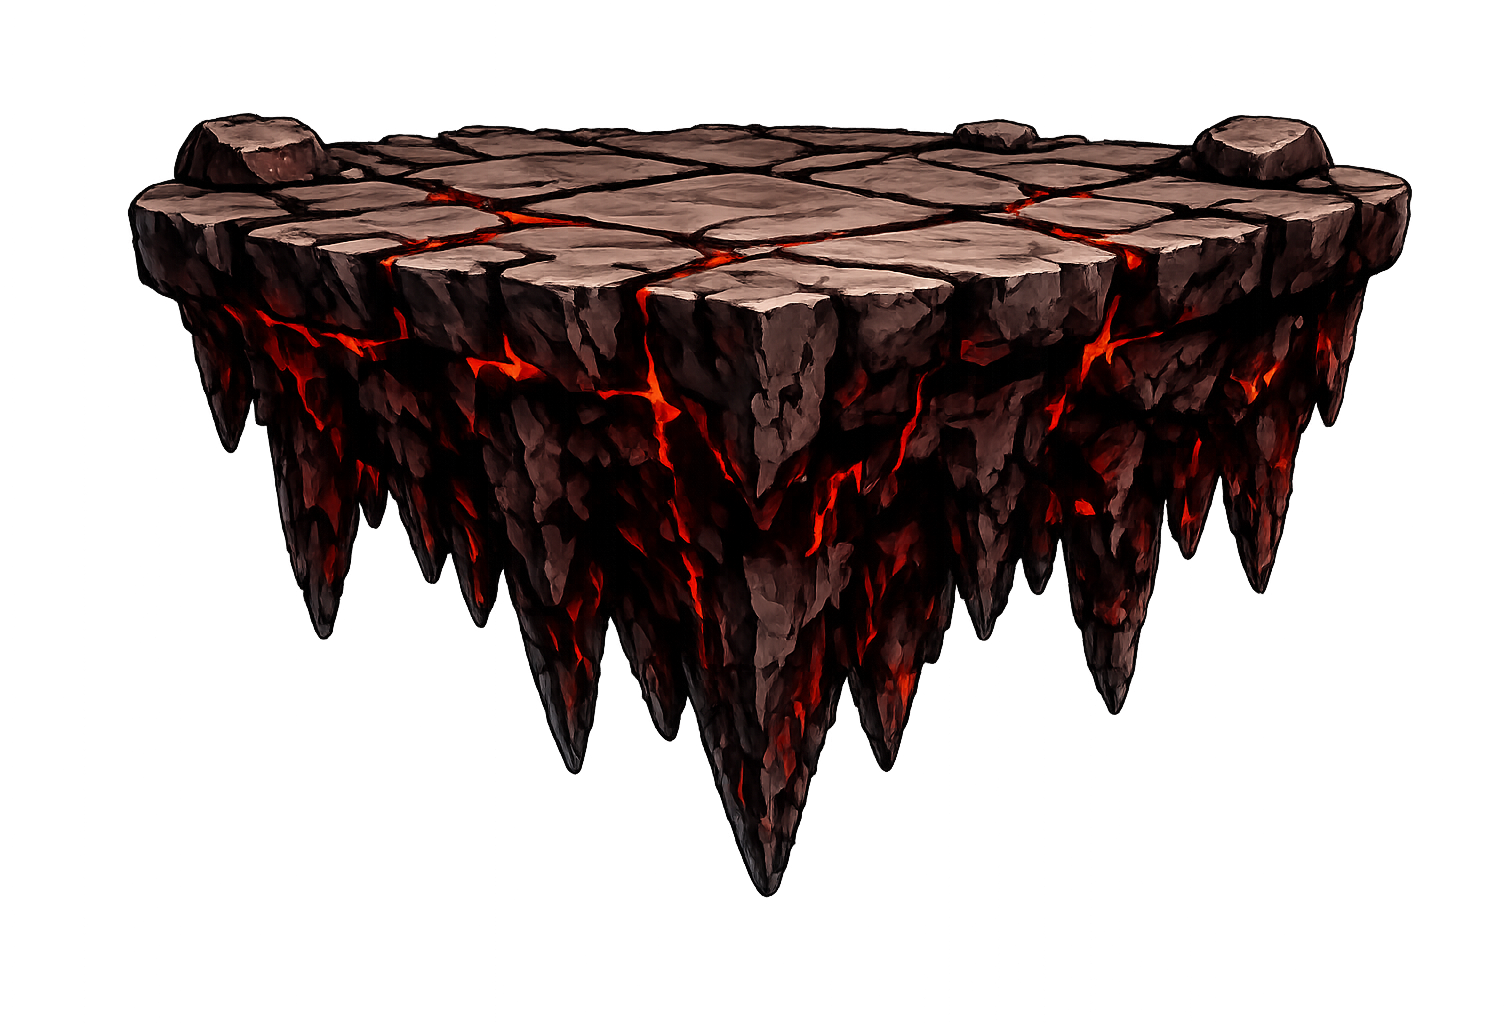
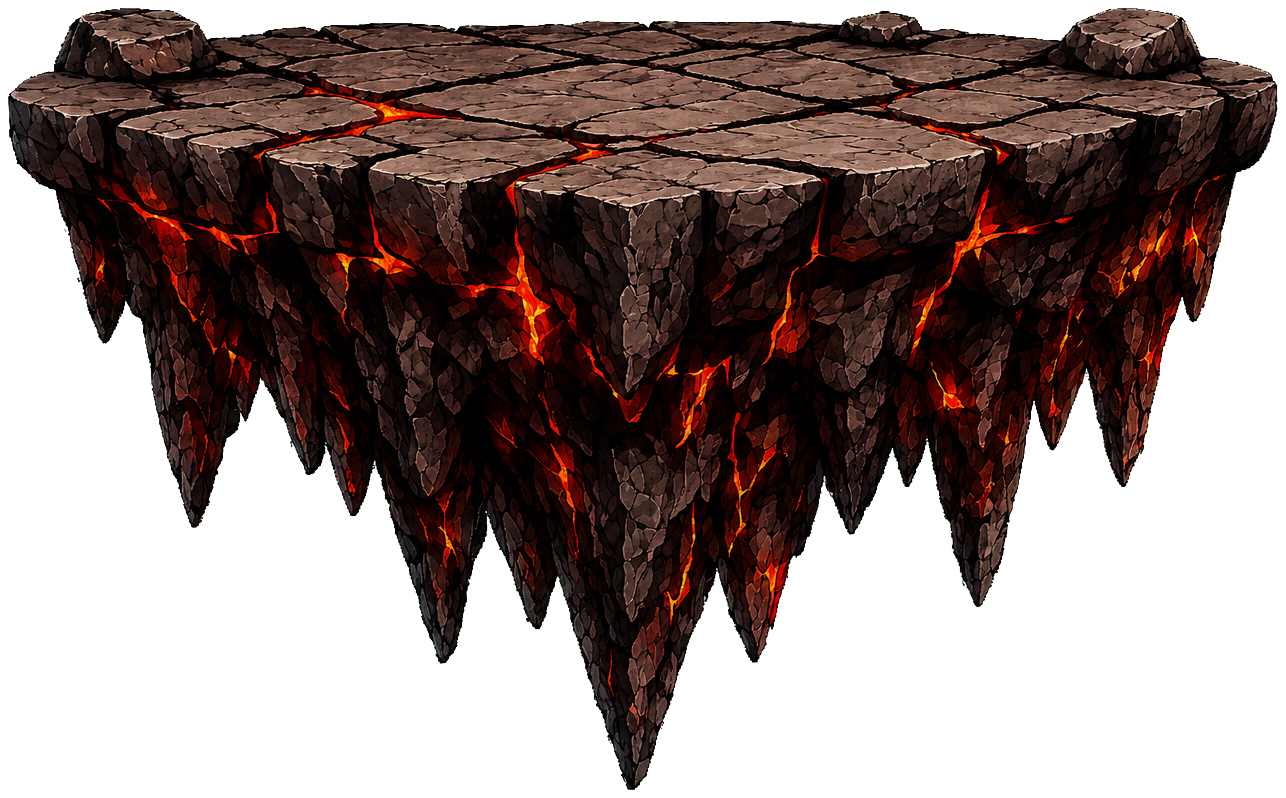
Replace Colt Run platform 04

diff --git a/app.js b/app.js
@@ -2047,6 +2047,7 @@ function startColtRunGame() {
   const smallPlatformSpriteIndex = 21;
   const platformAssetVersions = Array.from({ length: 22 }, () => "20260718-platform07-replace1");
   platformAssetVersions[0] = "20260718-platform01-replace1";
+  platformAssetVersions[3] = "20260718-platform04-replace1";
   platformAssetVersions[4] = "20260718-platform05-replace1";
   platformAssetVersions[8] = "20260718-platform09-replace1";
   platformAssetVersions[14] = "20260718-platform15-replace1";

diff --git a/index.html b/index.html
@@ -8,7 +8,7 @@
 </head>
 <body>
   <main id="app" class="app-shell"></main>
-  <script src="app.js?v=20260718-platform21-replace1"></script>
+  <script src="app.js?v=20260718-platform04-replace1"></script>
 </body>
 </html>
 
